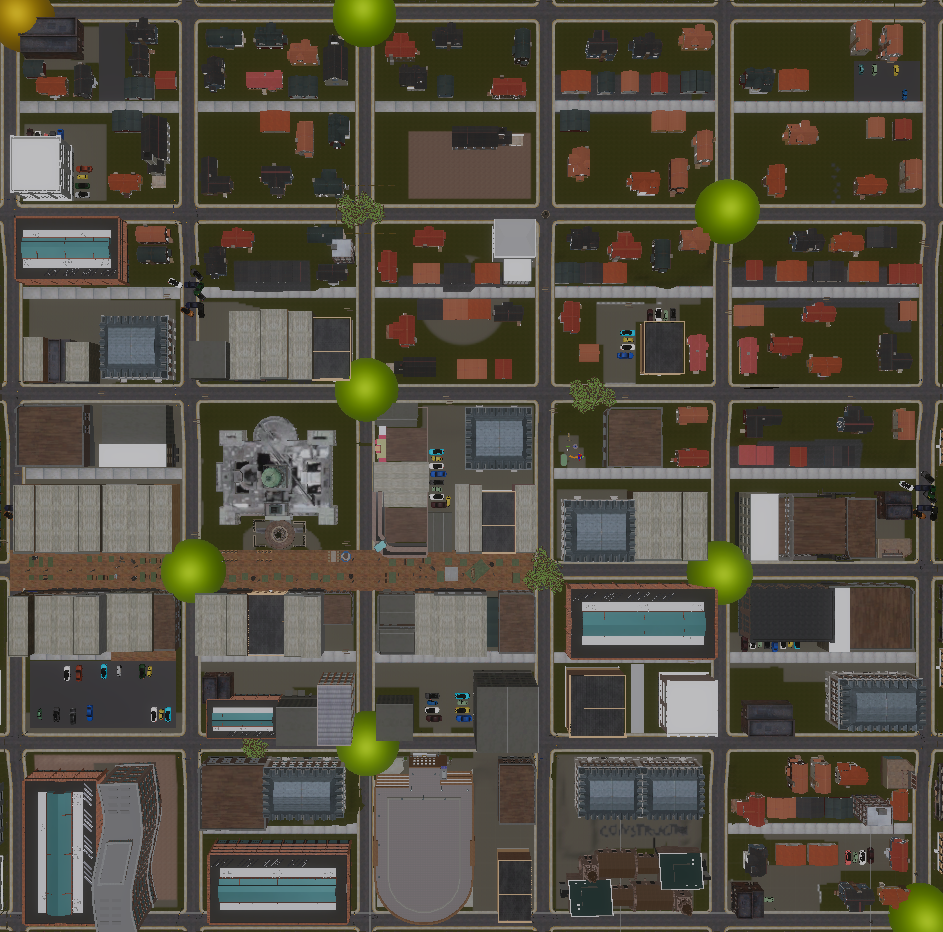
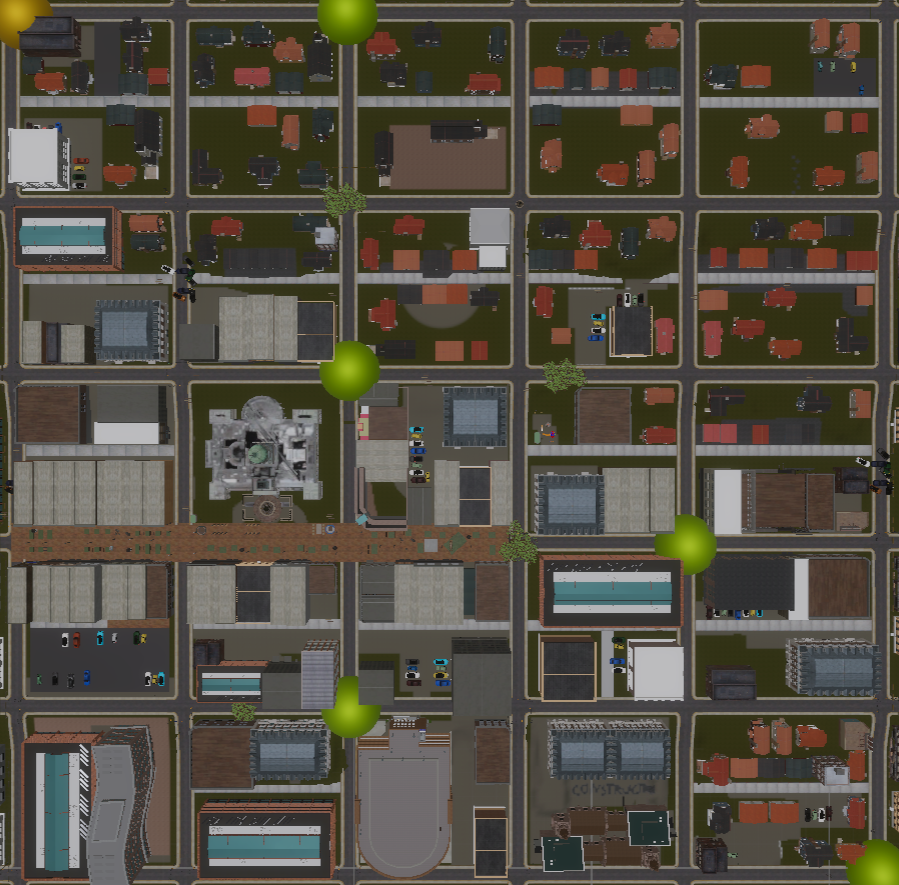
changed image for new waypoints, changed scale for map

diff --git a/script.js b/script.js
@@ -13,7 +13,7 @@ document.addEventListener('DOMContentLoaded', () => {
 	const mapPlaceholder = document.getElementById('map-placeholder');
 	const _bounds = {
 		minX: 57,
-		maxX: 420,
+		maxX: 425,
 		minZ: -5,
 		maxZ: 359
 		};
